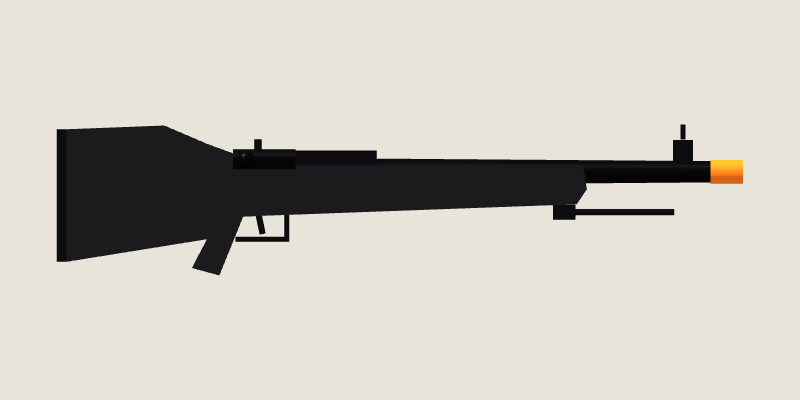
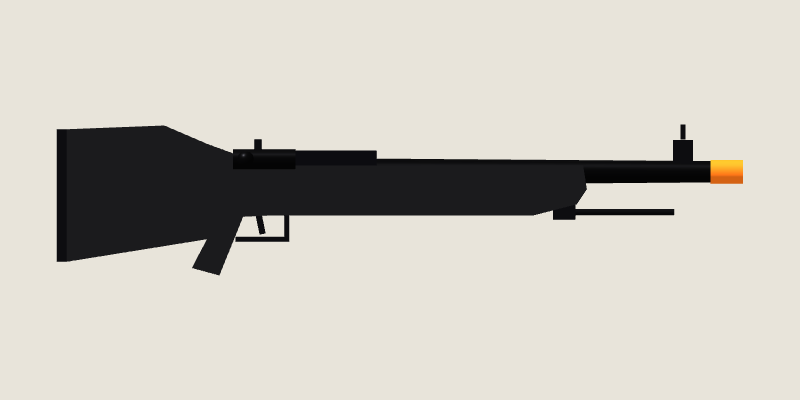
v1.225 fix-up: the sniper's forend is its own piece, level underneath past the rail, so under-barrel parts hang from it
The one-piece stock's box reached down to the grip cap, so a PVC foregrip, taped mag or sling read the rail's underside as -6.3 cm and hung 5 cm under the forend.

Claude-Session: https://claude.ai/code/session_015MkgLD32LSL5v9yoaLFZfL

Changed region(s): [[0.3438, 0.51, 0.6875, 0.54]]

diff --git a/index.html b/index.html
@@ -18617,17 +18617,22 @@ function buildFPSniper() {
   // stock is one piece in the 700's side profile: a forend the barrel beds into, slimming to its tip, a wrist rising to a straight comb,
   // a pistol grip raked 25° behind the trigger guard, and the belly dropping to the toe. Before v1.225 it was three
   // boxes and a cheek block, flat along the bottom from the grip to the toe with the grip under the trigger.
-  const prof = new THREE.Shape();   // x: the gun's z (toward the butt), y: the gun's y
-  [[-0.255, 0.025], [-0.005, 0.025], [0.012, 0.030], [0.045, 0.042], [0.080, 0.057], [0.158, 0.054], [0.158, -0.052],
-   [0.046, -0.034], [0.058, -0.057], [0.036, -0.063], [0.017, -0.016], [-0.005, -0.015],
-   [-0.250, -0.006], [-0.258, 0.006]]
-    .forEach(([z, y], i) => i ? prof.lineTo(z, y) : prof.moveTo(z, y));
-  const stockGeo = new THREE.ExtrudeGeometry(prof, { depth: 0.038, bevelEnabled: false });
-  stockGeo.translate(0, 0, -0.019);
-  stockGeo.rotateY(-Math.PI / 2);
-  const stock = new THREE.Mesh(stockGeo, stockMat);
-  stock.name = 'stock';
-  group.add(stock);
+  // x: the gun's z (toward the butt), y: the gun's y. v1.225 fix-up: the forend is its own piece, so the under-barrel
+  // parts, which hang from the box of whatever is at the rail, hang from the forend and not from the grip cap; its
+  // underside runs level back past the rail and the support hand, slimming only over its last 4 cm.
+  const sideProfile = (pts, name) => {
+    const prof = new THREE.Shape();
+    pts.forEach(([z, y], i) => i ? prof.lineTo(z, y) : prof.moveTo(z, y));
+    const geo = new THREE.ExtrudeGeometry(prof, { depth: 0.038, bevelEnabled: false });
+    geo.translate(0, 0, -0.019);
+    geo.rotateY(-Math.PI / 2);
+    const mesh = new THREE.Mesh(geo, stockMat);
+    mesh.name = name;
+    group.add(mesh);
+  };
+  sideProfile([[-0.255, 0.025], [-0.005, 0.025], [-0.005, -0.015], [-0.215, -0.015], [-0.250, -0.006], [-0.258, 0.006]], 'forend');
+  sideProfile([[-0.005, 0.025], [0.012, 0.030], [0.045, 0.042], [0.080, 0.057], [0.158, 0.054], [0.158, -0.052],
+    [0.046, -0.034], [0.058, -0.057], [0.036, -0.063], [0.017, -0.016], [-0.005, -0.015]], 'stock');
   const buttPad = new THREE.Mesh(new THREE.BoxGeometry(0.04, 0.106, 0.008), accentMat);
   buttPad.position.set(0, 0.001, 0.162);
   buttPad.name = 'buttpad';
@@ -19344,7 +19349,7 @@ const FP_HANDS = {
   shotgun: { r: { c: [0, -0.025, 0.047], rx: -0.55, gw: 0.017, gd: 0.022, up: -0.01 }, l: { kind: 'support', on: 'pump', c: [0, 0.025, 0], hw: 0.020, hh: 0.022 } },
   ar:      { r: { c: [0, -0.055, 0.010], rx: -0.35, gw: 0.017, gd: 0.017, up: -0.01 }, l: { kind: 'grip', c: [0, -0.005, -0.21], rx: 0, gw: 0.014, gd: 0.013, up: -0.005 } },
   sniper:  { r: { c: [0, -0.040, 0.037], rx: -0.44, gw: 0.019, gd: 0.013, up: -0.004 },   // v1.225: the 700's pistol grip, behind the guard
-            l: { kind: 'support', c: [0, 0.0085, -0.215], hw: 0.019, hh: 0.0165 }, underHand: true },
+            l: { kind: 'support', c: [0, 0.005, -0.215], hw: 0.019, hh: 0.020 }, underHand: true },
   ak47:    { r: { c: [0, -0.050, 0.020], rx: -0.25, gw: 0.016, gd: 0.015, up: -0.01 }, l: { kind: 'support', c: [0, 0.010, -0.18], hw: 0.020, hh: 0.020 }, underHand: true },
   mp5:     { r: { c: [0, -0.045, 0.012], rx: -0.22, gw: 0.015, gd: 0.014, up: -0.012 }, l: { kind: 'support', c: [0, 0.008, -0.165], hw: 0.018, hh: 0.018 }, underHand: true },
   ump:     { r: { c: [0, -0.048, 0.018], rx: -0.20, gw: 0.016, gd: 0.015, up: -0.012 }, l: { kind: 'support', c: [0, 0.012, -0.16], hw: 0.017, hh: 0.017 }, underHand: true },
